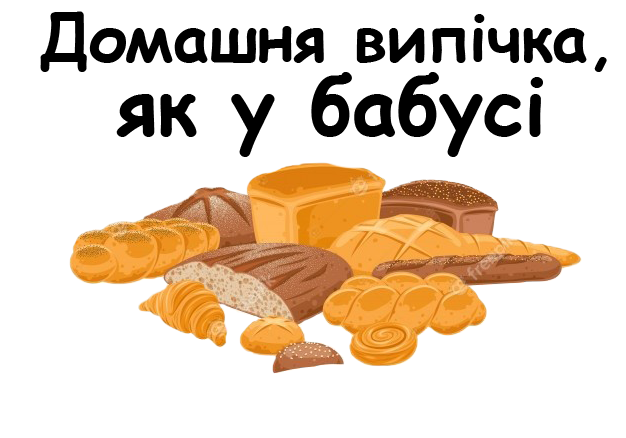
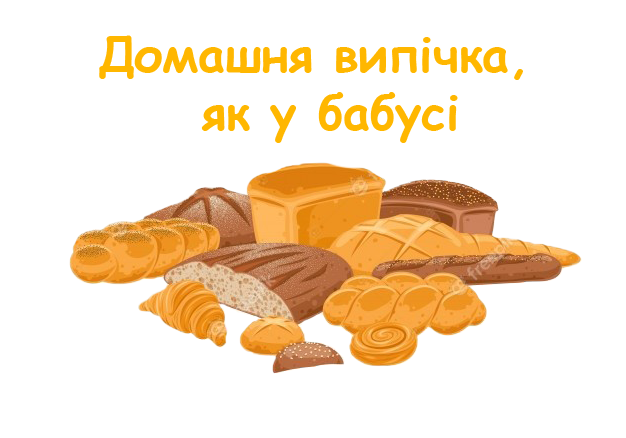
firstCommitInProjecktAfter6HourWriteCode

Changed region(s): [[0.0607, 0.0297, 0.9712, 0.3562]]

diff --git a/index.html b/index.html
@@ -1,0 +1,42 @@
+<!DOCTYPE html>
+<html lang="en">
+<head>
+    <meta charset="UTF-8">
+    <title>Домашня випічка</title>
+    <link rel="stylesheet" href="style.css">      
+</head>
+<body id='body'>
+    <p><img src='Glavnaya.png' id='glavnaya'></img></p>
+    
+    <p><img src='slogan number two2.png' id='twoslogan'></img></p>
+
+    <div><img src='bread.png' id='bread' ></img></div>
+    <div id='for_bread'>Домашній хліб.<br>
+    виготовлений за бабусиним рецептом,вагою 800 грамм.<div id='priceForBread'>Ціна:30 грн.</div>
+    </div>
+    <a href='contackt.html'><img src='zak.png'></img></a>
+
+    <div><img src='pampuski.png' id='pamp' ></img></div>
+    <div id='forPump'>Домашні пампушки з часником.<br>Виготовлені за бабусиним рецептом,
+    вагою 850 грамм.<div id='priceForPump'>Ціна:35 грн.</div></div>
+    <a href='contackt.html'><img src='zak.png'></img></a>
+
+    <p><img src='slogan number two3.png' id='threeslogan'></img></p>
+    
+    <div><img src='muffin_PNG194.png' id='muffin'></img></div>
+    <div id='forMuffin'>Домашні кекси,виготовлені на якісному маслі<br>
+        з різними начинками(цукати,ізюм,горіхи)<br>
+        Вага 85 грамм.<div id='priceForMuffin'>Ціна: 15 грн. за 1 шт.</div>
+    </div>
+    <a href='contackt.html'><img src='zak.png'></img></a>
+
+
+    <div><img src='cookies.png' id='cookies'></img></div>
+    <div id='forCookies'>Домашнє печево, виготовлено з якісного маргарину,<br>борошна
+        та цукру.В одній пачці 10 шт.<div id='priceForCookies'>Ціна за пачку: 10 грн.</div>
+    </div>
+    <a href='contackt.html'><img src='zak.png'></img></a>
+
+    
+</body>
+</html>

diff --git a/style.css b/style.css
@@ -1,0 +1,87 @@
+#body{
+    background-color: #FFFFD1;
+}
+
+#glavnaya{
+    margin-left:450px;
+    margin-top:80px;
+}
+
+#twoslogan{
+
+    margin-top: 229px;
+}
+#bread{
+    width:600px;
+    height:340px;
+    margin-left:40px;
+    margin-top:40px;
+   
+}
+#for_bread{
+   font-size:35px;
+   color:#4D4D4D;
+   margin-top:20px
+
+}
+#priceForBread{
+    color:#528C2E;
+}
+
+
+
+#pamp{
+    margin-top:80px;
+}
+#forPump{
+    font-size:35px;
+    color:#4D4D4D;
+    
+ 
+ }
+ #priceForPump{
+     color:#528C2E;
+ }
+
+
+
+
+ #threeslogan{
+     margin-top:100px;
+ }
+
+
+
+
+
+ #muffin{
+     width:400px;
+     height:300;
+     margin-top:50px;
+     margin-left:40px;
+ }
+ #forMuffin{
+    font-size:33px;
+    color:#4D4D4D;
+    margin-top:35px;
+ }
+ #priceForMuffin{
+    color:#528C2E;
+ }
+
+
+
+
+ #cookies{
+     width:500px;
+     height:400px;
+     margin-top:100px;
+ }
+ #forCookies{
+    font-size:33px;
+    color:#4D4D4D;
+    margin-top:5px;
+ }
+ #priceForCookies{
+     color: #528C2E;
+ }

diff --git a/style1.css b/style1.css
@@ -1,0 +1,40 @@
+#body{
+    background-color: #FFFFD1;
+}
+#zag{
+    color:#E7A55B;
+    font-size:50px;
+    margin-left:600px;
+    margin-top:40px;
+}
+#name{
+    color:#424242;
+    margin-left:730px;
+    font-size:20px;
+    
+}
+#tel{
+    margin-left:640px;
+    font-size:20px;
+    margin-top:20px;
+}
+#deliver{
+    margin-left:530px;
+    font-size:20px;
+    color:#F24928;
+    font-weight:1000;
+    margin-top:20px;
+
+}
+#col{
+    margin-left:200px;
+}
+#exit{
+    border:3px solid black;
+    border-radius:20px;
+    width:100px;
+    font-size:20px;
+    margin-left:900px;
+    margin-top:40px;
+    text-decoration: none; 
+}

diff --git a/contackt.html b/contackt.html
@@ -1,0 +1,16 @@
+<!DOCTYPE html>
+<html lang="en">
+<head>
+    <meta charset="UTF-8">
+    <link rel="stylesheet" href="style1.css">
+    <title>Замовити хліб</title>
+</head>
+<body id='body'>
+    <div id='zag'>Наші данні</div>
+    <div id='tel'>+380-98-396-01-10</div>
+    <div id='name'>Дмитро</div>
+    <div id='deliver'>Доставка по Лисянці безкоштовна до 31.12.2021</div>
+    <div><img src='colos.png' id='col'></img></div>
+    <a id='exit' href='index.html'>На головну</a>
+</body>
+</html>
